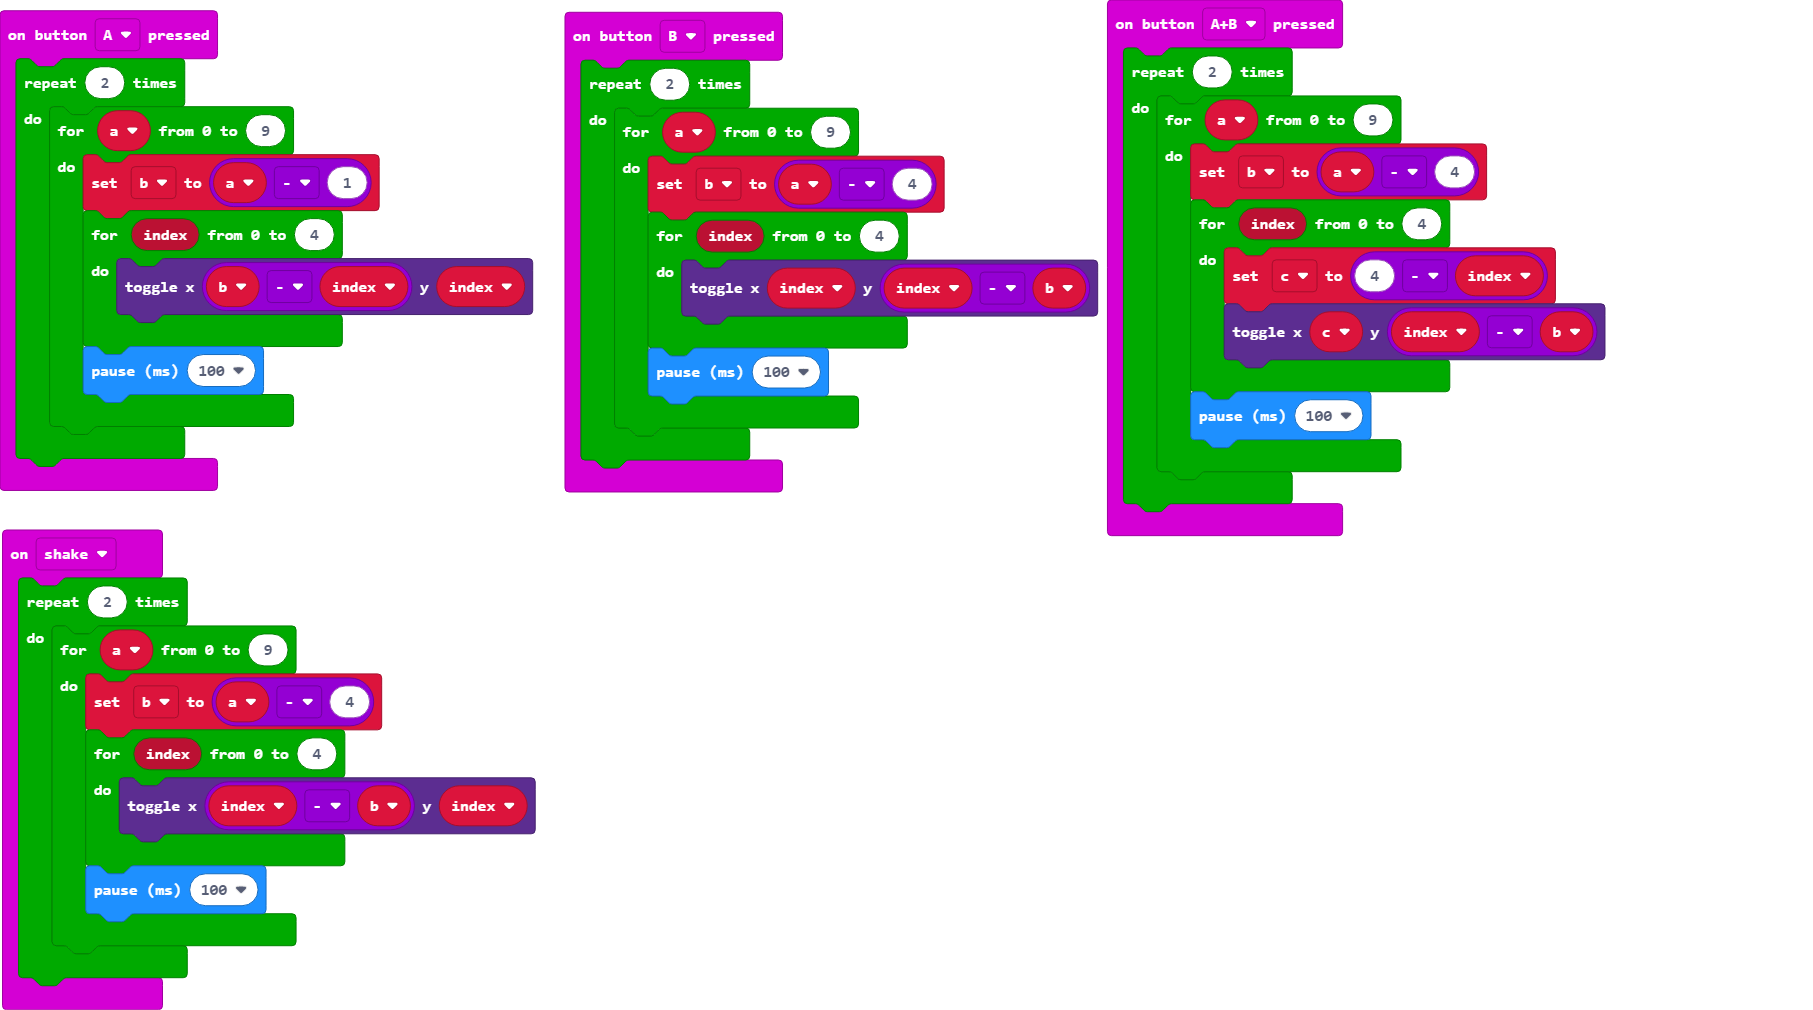
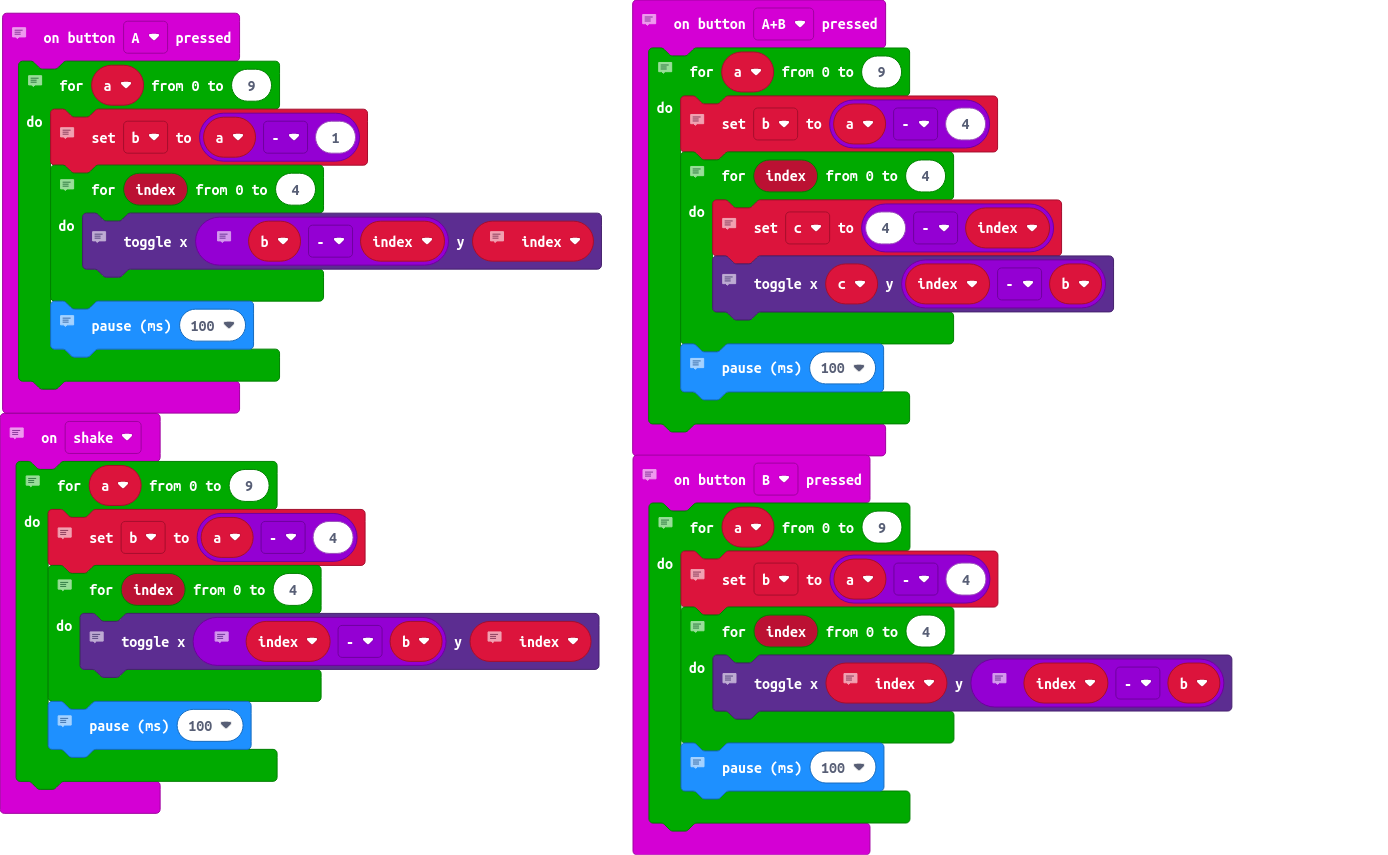
Update main.blocks, main.ts

diff --git a/main.ts b/main.ts
@@ -1,47 +1,70 @@
 let b = 0
 let c = 0
+// cascades from top right corner
 input.onButtonPressed(Button.A, function () {
-    for (let index = 0; index < 2; index++) {
-        for (let a = 0; a <= 9; a++) {
-            b = a - 1
-            for (let index = 0; index <= 4; index++) {
-                led.toggle(b - index, index)
-            }
-            basic.pause(100)
+    // runs inside code 10 times while also increasing "a" by 1 each time
+    for (let a = 0; a <= 9; a++) {
+        // makes b=a-1
+        b = a - 1
+        // loops inside code 5 times while increasing index by 1 each time
+        for (let index = 0; index <= 4; index++) {
+            // toggles (x,y)
+            // x=b-index
+            // y=index
+            led.toggle(b - index, index)
         }
+        // pauses for 100ms
+        basic.pause(100)
     }
 })
+// cascades from bottom left
 input.onButtonPressed(Button.AB, function () {
-    for (let index = 0; index < 2; index++) {
-        for (let a = 0; a <= 9; a++) {
-            b = a - 4
-            for (let index = 0; index <= 4; index++) {
-                c = 4 - index
-                led.toggle(c, index - b)
-            }
-            basic.pause(100)
+    // runs inside code 10 times while also increasing "a" by 1 each time
+    for (let a = 0; a <= 9; a++) {
+        // makes b=a-4
+        b = a - 4
+        // loops inside code 5 times while increasing index by 1 each time
+        for (let index = 0; index <= 4; index++) {
+            // makes c=4-index
+            c = 4 - index
+            // toggles (x,y)
+            led.toggle(c, index - b)
         }
+        // pauses for 100ms
+        basic.pause(100)
     }
 })
+// cascades from bottom right
 input.onButtonPressed(Button.B, function () {
-    for (let index = 0; index < 2; index++) {
-        for (let a = 0; a <= 9; a++) {
-            b = a - 4
-            for (let index = 0; index <= 4; index++) {
-                led.toggle(index, index - b)
-            }
-            basic.pause(100)
+    // runs inside code 10 times while also increasing "a" by 1 each time
+    for (let a = 0; a <= 9; a++) {
+        // makes b=a-4
+        b = a - 4
+        // loops inside code 5 times while increasing index by 1 each time
+        for (let index = 0; index <= 4; index++) {
+            // toggles (x,y)
+            // x=index
+            // y=index-b
+            led.toggle(index, index - b)
         }
+        // pauses for 100ms
+        basic.pause(100)
     }
 })
+// cascades from top left
 input.onGesture(Gesture.Shake, function () {
-    for (let index = 0; index < 2; index++) {
-        for (let a = 0; a <= 9; a++) {
-            b = a - 4
-            for (let index = 0; index <= 4; index++) {
-                led.toggle(index - b, index)
-            }
-            basic.pause(100)
+    // runs inside code 10 times while also increasing "a" by 1 each time
+    for (let a = 0; a <= 9; a++) {
+        // makes b=a-4
+        b = a - 4
+        // loops inside code 5 times while increasing index by 1 each time
+        for (let index = 0; index <= 4; index++) {
+            // toggles (x,y)
+            // x=index-b
+            // y=index
+            led.toggle(index - b, index)
         }
+        // pauses for 100ms
+        basic.pause(100)
     }
 })
